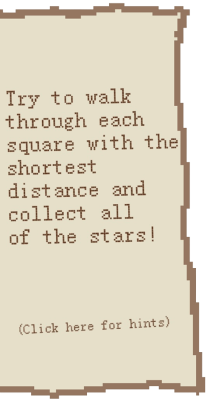
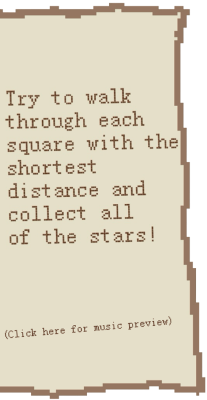
Clean

Changed region(s): [[0.029, 0.78, 0.5797, 0.87], [0.6087, 0.78, 0.8406, 0.84]]

diff --git a/src/scripts/scenes/BaseScence.ts b/src/scripts/scenes/BaseScence.ts
@@ -41,15 +41,23 @@ export default class BaseScene extends Phaser.Scene {
       super(KeyName);
     }
   
-    create(imageName: string, levelName: string, playerX: number, playerY: number, playerState: string) {
+    create(imageName: string, levelName: string, playerX: number, playerY: number, playerState: string, levelPrview: string) {
+        // add background
         this.add.image(400, 300, imageName)
 
+        this.levelSound = this.sound.add(levelPrview); 
+        const song_instructions = this.add.image(85, 320, 'note');
+        song_instructions.setInteractive();
+        song_instructions.on('pointerdown', () => this.levelSound.play())
+
+        // Record the initial position of the sprite for the reset button
         this.initialPlayerX = playerX;
         this.initialPlayerY = playerY;
         
+        // Set user input to initial value
         this.inputIndex = 0;
         
-        //add menu?
+        //add button to show instruction and make player able to return to the previous page
         this.path = this.add.image(1220, 50, 'arrow')
         .setInteractive()
         .on('pointerdown', ()=>this.scene.start('LevelMenu'));
@@ -69,10 +77,7 @@ export default class BaseScene extends Phaser.Scene {
 			color: '#222222'
 		})
 
-        //add note (level specific now)
-        //this.add.image(85, 320, 'note')
-
-        //add map
+        //add board
         this.add.image(650, 320, 'map')
 
         //add buttons
@@ -126,11 +131,13 @@ export default class BaseScene extends Phaser.Scene {
 			frames: this.anims.generateFrameNumbers('guy_right', {start:0, end:3}), frameRate: 13, repeat: -1
 		});
 
+        // draw player
         this.player = this.physics.add.sprite(playerX, playerY, playerState);
         this.player.setDepth(1)
         this.goals = this.physics.add.group();
         this.goalsLeft = 0;
         
+        // make player collide with goal 
         this.physics.add.collider(this.player, this.goals);
         this.physics.add.overlap(
             this.player,
@@ -140,7 +147,7 @@ export default class BaseScene extends Phaser.Scene {
             this
           );
 
-
+        // set boundary for game board, make sprite unable to move outside the board
         this.physics.world.setBounds(300, 20, 700, 520);
         this.player.setCollideWorldBounds(true);
 
@@ -149,7 +156,8 @@ export default class BaseScene extends Phaser.Scene {
         .on('pointerdown', ()=>this.instruction.setVisible(false));
         this.instruction.setDepth(2)
     }
-
+    
+    // collision for player and goal
     private handleCollision(
         playerObj: Phaser.Physics.Arcade.Sprite,
         goalObj: Phaser.Physics.Arcade.Sprite
@@ -166,6 +174,7 @@ export default class BaseScene extends Phaser.Scene {
         }
     }
 
+    // For delete button, delete last note in the group
     private destroyLast(noteGroup: Phaser.GameObjects.Group) {
         const last = noteGroup.getChildren()[noteGroup.getChildren().length - 1] as Phaser.GameObjects.Text;
 
@@ -174,6 +183,7 @@ export default class BaseScene extends Phaser.Scene {
         }
     }
 
+    // Handling user input
     protected editInput(userInput:Array<string>, noteX: number, noteY:number, noteGroup:Phaser.GameObjects.Group,
         noteLeft: string, noteRight: string, noteUp: string, noteDown: string, LevelName: string){
             this.left.on('pointerdown', () => {
@@ -237,6 +247,7 @@ export default class BaseScene extends Phaser.Scene {
         } */
     }
     
+    // Make sprite move
 	protected movePlayer(player: Phaser.Types.Physics.Arcade.SpriteWithDynamicBody, soundLeft: Phaser.Sound.BaseSound,
         soundRight: Phaser.Sound.BaseSound, soundUp: Phaser.Sound.BaseSound, soundDown: Phaser.Sound.BaseSound, 
         userInput:Array<string>, inputIndex: number) {

diff --git a/src/scripts/scenes/TutorialScene.ts b/src/scripts/scenes/TutorialScene.ts
@@ -7,7 +7,7 @@ export default class TutorialScene extends BaseScene {
     }
   
     create() {
-        super.create('mountain', 'Tutorial', 340, 320, 'guy_right');
+        super.create('mountain', 'Tutorial', 340, 320, 'guy_right', "tutorialPreview");
 
         //this.player = this.physics.add.sprite(340, 320, 'guy_right');
         const goal1 = this.physics.add.sprite(655, 320, 'star');
@@ -28,15 +28,6 @@ export default class TutorialScene extends BaseScene {
         this.noteUp = "6"
         this.noteDown = "1"
 
-        this.levelSound = this.sound.add("tutorialPreview"); 
-        const song_instructions = this.add.image(105, 320, 'note');
-        song_instructions.setInteractive();
-        song_instructions.on('pointerdown', () => this.levelSound.play())
-
-        /* this.goal = this.add.image(655,320,'star')
-        .setInteractive()
-        .on('pointerdown', ()=>this.goToEnd());
-        this.path.setScale(0.8); */
 
         //add trees 
         this.add.image(660, 200, 'tree1')
@@ -53,6 +44,8 @@ export default class TutorialScene extends BaseScene {
         //add instruction
         this.instruction.setVisible(true)
 
+        // Since the previous page of the tutorial is the main menu, 
+        // override the back button so that it does not return to the level menu
         this.path.removeAllListeners();
         this.path.on('pointerdown', ()=>this.scene.start('TitleScene'));
 
@@ -64,7 +57,7 @@ export default class TutorialScene extends BaseScene {
             this.soundUp, this.soundDown, this.userInput, this.inputIndex), 700);
       });
         this.editInput(this.userInput, this.noteX, this.noteY, this.noteGroup, this.noteLeft, this.noteRight,
-          this.noteUp, this.noteDown);
+          this.noteUp, this.noteDown, 'Tutorial');
 	}
 
 }

diff --git a/src/scripts/scenes/Level1.ts b/src/scripts/scenes/Level1.ts
@@ -1,20 +1,26 @@
 import BaseScene from './BaseScence'
 
+/* This scene is a prototype
+as a guide for all other levels */
+
+
 export default class Level1 extends BaseScene {
     constructor() {
       super('Level1');
     }
+
     
     create() {
+      // creat basic elements
       console.log('level 1');
-      super.create('mountain', 'Level 1', 444, 20, 'guy_down');
+      super.create('mountain', 'Level 1', 444, 20, 'guy_down', "g5_sound");
       this.add.image(650, 32, 'map');
       
-      //COPY THIS
+     /*  //COPY THIS
       this.levelSound = this.sound.add("g5_sound"); 
       const song_instructions = this.add.image(85, 320, 'note');
       song_instructions.setInteractive();
-      song_instructions.on('pointerdown', () => this.levelSound.play())
+      song_instructions.on('pointerdown', () => this.levelSound.play()) */
 
       //add sounds
       this.soundUp = this.sound.add("g5_sound")
@@ -23,6 +29,7 @@ export default class Level1 extends BaseScene {
       this.soundRight = this.sound.add("e3_sound")
 
 
+      // add starts for this level
       const goal1 = this.physics.add.sprite(865, 320, 'star');
       const goal2 = this.physics.add.sprite(550, 30, 'star');
       const goal3 = this.physics.add.sprite(445, 130, 'star');

diff --git a/src/scripts/scenes/LevelA.ts b/src/scripts/scenes/LevelA.ts
@@ -6,11 +6,13 @@ export default class LevelA extends BaseScene{
     }
 
     create() {
+      // creat basic elements
       console.log('level a');
       this.levelName = 'LevelA';
-      super.create('mountain', 'Mary Had A\nLittle Lamb', 444, 120, 'guy_down');
+      super.create('mountain', 'Mary Had A\nLittle Lamb', 444, 120, 'guy_down', "levelAPreview");
       this.add.image(650, 32, 'map');
-        //add sounds
+        
+      //add sounds
       this.soundUp = this.sound.add("c1_sound")
       this.soundDown = this.sound.add("e3_sound")
       this.soundLeft = this.sound.add("g5_sound")
@@ -21,13 +23,8 @@ export default class LevelA extends BaseScene{
       this.noteRight = "2"
       this.noteUp = "1"
       this.noteDown = "3"
-      
-      this.levelSound = this.sound.add("levelAPreview"); 
-      const song_instructions = this.add.image(105, 320, 'note');
-      song_instructions.setInteractive();
-      song_instructions.on('pointerdown', () => this.levelSound.play())
 
-
+      // add starts for this level
       const goal1 = this.physics.add.sprite(965, 520, 'star');
       const goal2 = this.physics.add.sprite(550, 130, 'star');
       const goal3 = this.physics.add.sprite(445, 230, 'star');

diff --git a/src/scripts/scenes/LevelMenu.ts b/src/scripts/scenes/LevelMenu.ts
@@ -11,23 +11,28 @@ export default class LevelMenu extends Phaser.Scene{
     }
     
     create(){
+        // background
         this.add.image(500, 450, 'levelselect')
 
+        // a path to back title scene
         this.path = this.add.image(1220, 50, 'arrow')
         .setInteractive()
         .on('pointerdown', ()=>this.scene.start('TitleScene'));
         this.path.setScale(0.8);
 
+        // to Level B
         this.button1 = this.add.rectangle(600, 500, 300, 100, 0xdadaaa)
         .setInteractive()
         .on('pointerdown', ()=>this.scene.start('LevelB'));
         this.button1.setScale(0.8); 
 
+        // to Level A
         this.button2 = this.add.rectangle(200, 500, 300, 100, 0xaadada)
         .setInteractive()
         .on('pointerdown', ()=>this.scene.start('LevelA'));
         this.button2.setScale(0.8);
 
+        // to Level C
         this.button3 = this.add.rectangle(1000, 500, 300, 100, 0xdadadaa)
         .setInteractive()
         .on('pointerdown', ()=>this.scene.start('LevelC'));

diff --git a/src/scripts/scenes/LevelC.ts b/src/scripts/scenes/LevelC.ts
@@ -8,7 +8,7 @@ export default class LevelC extends BaseScene {
     create() {
       console.log('level c');
       this.levelName = 'LevelC';
-      super.create('mountain', 'Itsy Bitsy\nSpider', 444, 20, 'guy_down');
+      super.create('mountain', 'Itsy Bitsy\nSpider', 444, 20, 'guy_down', "levelCPreview");
       this.add.image(650, 32, 'map');
 
      //add sounds
@@ -23,11 +23,7 @@ export default class LevelC extends BaseScene {
       this.noteUp = "10"
       this.noteDown = "8"
 
-      this.levelSound = this.sound.add("levelCPreview"); 
-      const song_instructions = this.add.image(105, 320, 'note');
-      song_instructions.setInteractive();
-      song_instructions.on('pointerdown', () => this.levelSound.play())
-
+      // add starts for this level
       const goal1 = this.physics.add.sprite(650, 220, 'star');
       const goal2 = this.physics.add.sprite(550, 130, 'star');
       const goal3 = this.physics.add.sprite(345, 30, 'star');

diff --git a/src/scripts/scenes/LevelB.ts b/src/scripts/scenes/LevelB.ts
@@ -7,7 +7,7 @@ export default class LevelB extends BaseScene{
 
     create() {
       console.log('level b');
-      super.create('mountain', 'Old MacDonald', 444, 120, 'guy_down');
+      super.create('mountain', 'Old MacDonald', 444, 120, 'guy_down',"levelBPreview");
       this.add.image(650, 32, 'map');
       
       //add sounds
@@ -22,11 +22,7 @@ export default class LevelB extends BaseScene{
       this.noteUp = "1"
       this.noteDown = "3"
 
-      this.levelSound = this.sound.add("levelBPreview"); 
-      const song_instructions = this.add.image(105, 320, 'note');
-      song_instructions.setInteractive();
-      song_instructions.on('pointerdown', () => this.levelSound.play())
-
+      // add starts for this level
       const goal1 = this.physics.add.sprite(965, 420, 'star');
       const goal2 = this.physics.add.sprite(650, 330, 'star');
       const goal3 = this.physics.add.sprite(550, 230, 'star');

diff --git a/src/scripts/scenes/TitleScene.ts b/src/scripts/scenes/TitleScene.ts
@@ -10,14 +10,17 @@ export default class TitleScene extends Phaser.Scene{
     }
     
     create(){
+        // background
         this.add.image(500, 450, 'title')
         //this.add.text(200, 100, "Algorhythm", { color: "#FFFFFF", font: "120px Times New Roman"})
 
+        // go to level menu
         this.button1 = this.add.rectangle(850, 500, 200, 100, 0xdadaaa)
         .setInteractive()
         .on('pointerdown', ()=>this.goToLevel());
         this.button1.setScale(0.8); 
 
+        //go to tutorial scene
         this.button2 = this.add.rectangle(350, 500, 200, 100, 0xaadada)
         .setInteractive()
         .on('pointerdown', ()=>this.goToTutorial());

diff --git a/src/scripts/scenes/EndScene.ts b/src/scripts/scenes/EndScene.ts
@@ -7,6 +7,7 @@ export default class EndScene extends Phaser.Scene {
   
     create() {
       // code from Spanish Shopping Expedition
+      // make player return to level menu
       this.add.image(700, 400, "endscreen")
       .setInteractive()
       .on('pointerdown', ()=>this.scene.start('LevelMenu'));

diff --git a/vite.config.ts b/vite.config.ts
@@ -4,5 +4,5 @@ export default defineConfig({
 	plugins: [],
 	server: { host: '0.0.0.0', port: 8000 },
 	clearScreen: false,
-	base: "/group-project-algorhythm-test/"
+	base: "/group-project-algorhythm/"
 })
